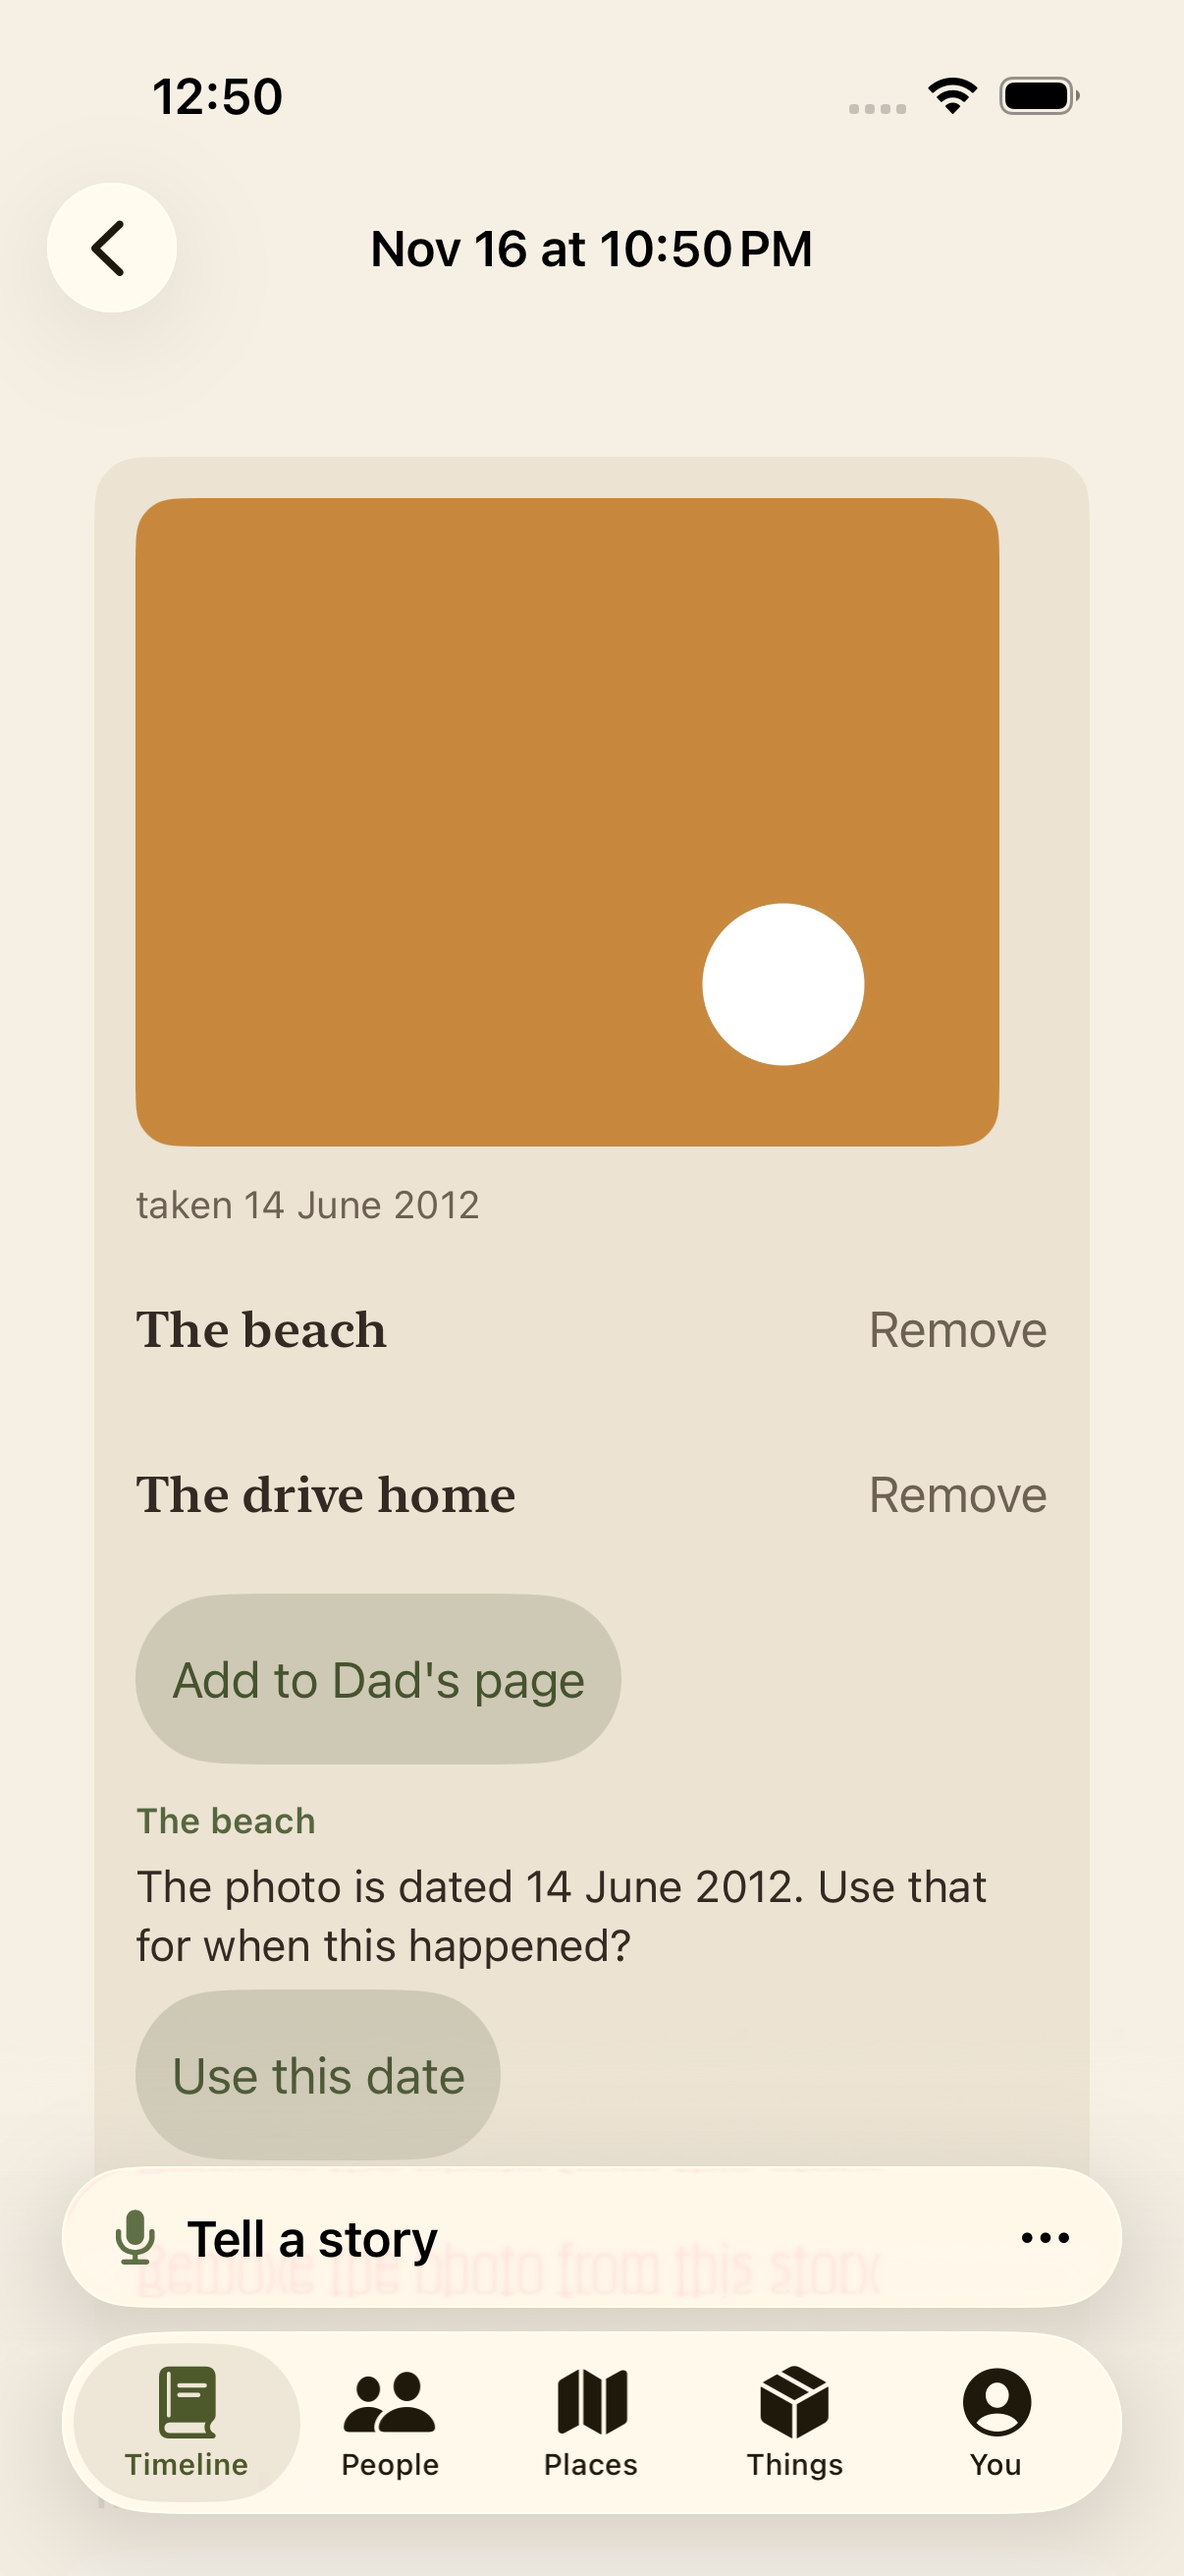
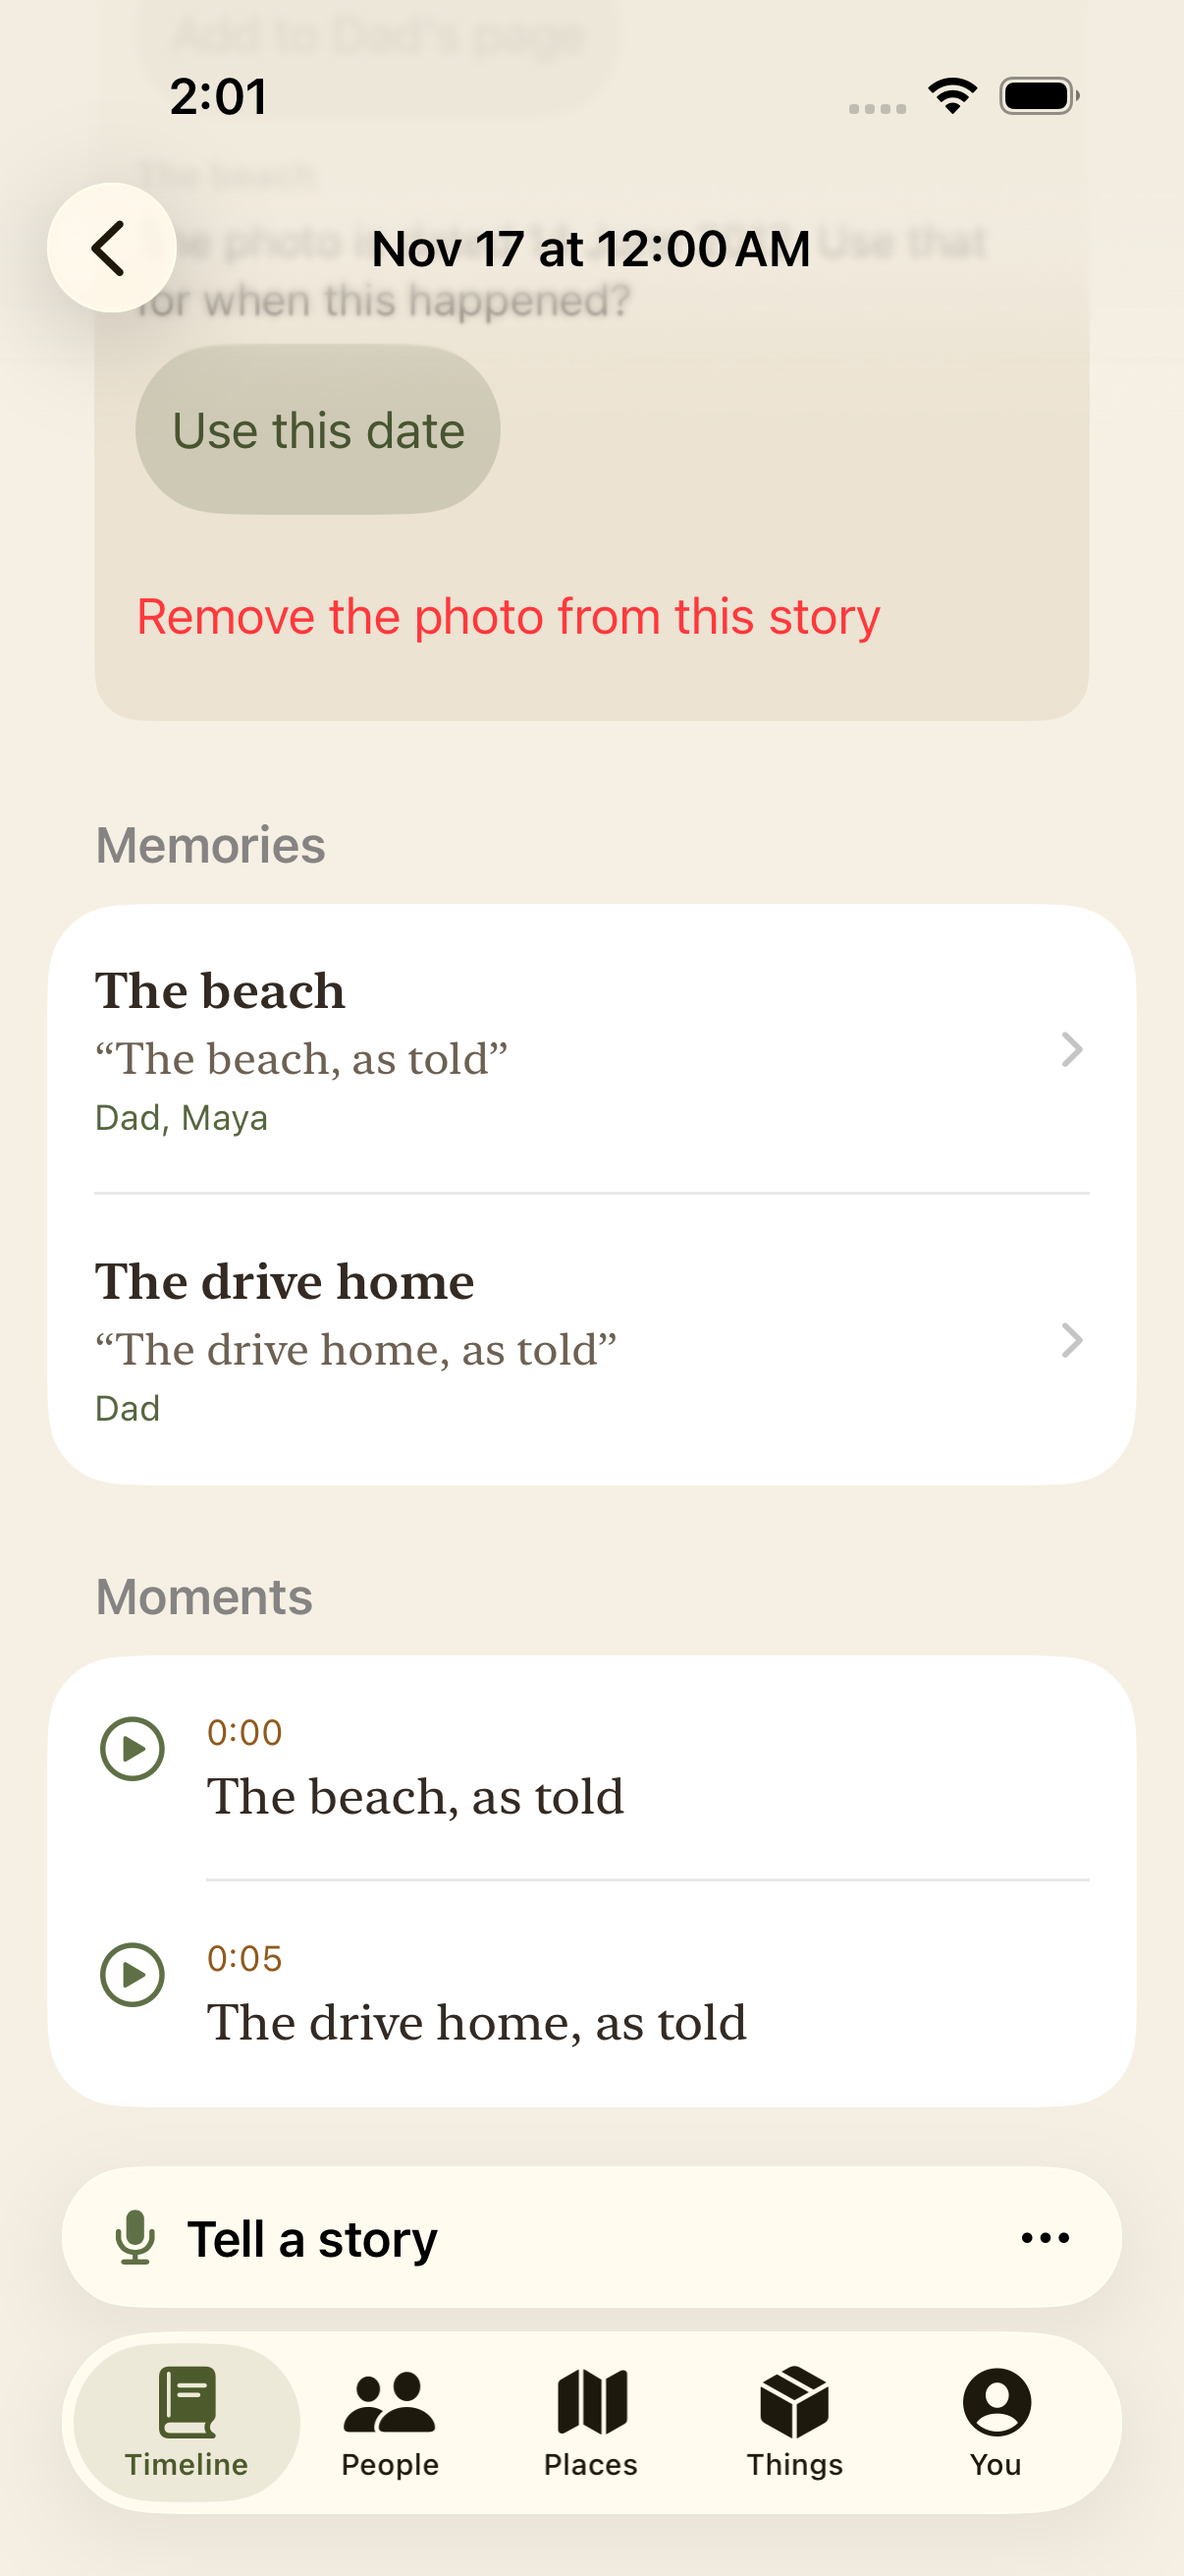
Docs: the final review's rulings, and screenshots 05 and 06 retaken
DECISIONS records the card listing merged-into memories, the merge write that
says what it linked, no "you said" line for a photo date, "Tell its story"
only where a session can start, the question before "Remove the photo from
this story" (copy for the owner to confirm) and the new thumbnail requests.
OVERVIEW no longer lists Favorite photos as a Phase 2 prompt. The device
check reads the grid tile as VoiceOver says it and adds a long-album scroll.

diff --git a/docs/DECISIONS.md b/docs/DECISIONS.md
@@ -23,6 +23,7 @@ One entry per decision. Newest first. Status is Decided, Open, or Superseded.
 **Rulings made while building (2026-11-16).** Each ruling has its cost.
 
 - **Undo of a merge takes back the photo link that the merge added.** It never takes a link that the target held before. Why: without this, an undone merge leaves a photo on a memory that the telling no longer belongs to. Cost: none. Remove `MergeReceipt.addedPhoto` to undo the ruling. This differs from S4, where an undone merge leaves the photos on the target.
+- **The merge write says which link it added (final review).** The link call returns the photo when it wrote the link. The check runs inside the transaction, after the folds of a group merge. Why: a check before the folds counted a photo that a folded memory carried to the target as added. The undo then took the photo off both memories.
 - **“Use this date” is one write, then the resolver runs.** The write changes the memory and its chapter’s range together. Why: a memory placed relative to this one must be placed again at once. Cost: one resolver run per tap.
 - **`PhotoCaption.longDate` is public.** The caption and the evidence text share one formatter.
 - **The running session’s header reads “You chose a story about a photo”.** The Sessions list names the session “A story about a photo”. Why: the record bar sits under the session screen, so the plan’s name “on the bar” has no place to show. The header follows the pattern “You chose a quick story”. Cost: one string.
@@ -30,15 +31,20 @@ One entry per decision. Newest first. Status is Decided, Open, or Superseded.
 - **The system picker for “All photos”, for no access and for an empty album is inline in the start sheet.** Only its bottom toolbar is hidden. Why: every path then starts the session from the dismissal of that one sheet, and the app never presents the session over a sheet. Cost: the inline picker looks unlike the modal picker of “Add a photo”. The owner must see it on the device.
 - **The record bar menu uses a fixed order.** The menu opens upward and showed its items in reverse, so “Tell a story about a photo” sat above “Settle in”.
 - **A cancel while a photo is added stores nothing.** The rule lives in the kit (`CancellablePhotoStore`). A stray stored photo is not visible in the UI, so no UI test can fail for it.
-- **Thumbnails use opportunistic delivery with the network off. A nil result is asked again.** An iCloud-only favorite then shows its local low-resolution image, not an empty tile. Cost: not checked against a real iCloud library. The device check covers it.
+- **Thumbnails ask for the full-quality image on the phone, then for the phone’s low-quality copy. The network stays off. A nil result is asked again.** Each request calls back once, so a tile never waits for a second delivery. The continuation resumes once, and a cancelled tile cancels its request. An iCloud-only favorite then shows its local low-resolution image, not an empty tile. Cost: two requests for an iCloud-only photo. Not checked against a real iCloud library. The device check covers it.
 - **“Its photo goes too.” is on the landing’s delete dialog only.** The landing is the only place the app deletes a session.
 - **A deleted session sweeps its homeless photo at once.** Why: the sentence in the dialog must be true before the next launch. Cost: one directory listing and one query per delete.
 - **The Remove button’s accessibility label is “Remove from {title}”.** Two rows with the same visible “Remove” are the same to VoiceOver and Voice Control. The label starts with the visible text.
+- **The card lists each memory that has a telling in the session (final review).** This includes a memory that a telling was merged into, which was first told in another session. The memory gets its title, “Remove”, its page offers and its date offer. Why: the merge put the photo on that memory, so the person must see it and be able to take it off.
+- **A date from a photo has no “you said” line (final review).** The memory page shows the day and the mark “from a photo”. The mark states the source. Why: the person tapped an offer. The person did not say the date. `TimeRange.saidEvidence` holds the rule.
+- **“Tell its story” shows only where a session can start (final review).** The viewer inside a landing’s review does not show it. The app also hides it while a session or a landing is up. Why: there the button did nothing, and a start would replace a landing that the person has not answered.
+- **“Remove the photo from this story” asks first (final review).** The dialog follows S4’s “Remove photo…”. Title: “Remove this photo?”. Message: “It leaves this story. The original stays in your photo library.” Buttons: “Remove photo” and “Keep it”. Why: when nothing else holds the photo, the tap deletes it from the app. The owner must confirm the new copy.
+- **“Use this date” has the accessibility label “Use this date for {title}”.** Two offers are then not the same to VoiceOver and Voice Control. The label starts with the visible text.
 - **The test seed has two photo sessions.** The second has no kept memory, and its photo has no other home. The delete test needs one. `-uiTesting-photoStoryLanding first|second` opens the app on a landing, because the delete dialog opens from a landing only.
 - **Test changes.** The kit test target did not compile on Swift 6.4.2, so the controller un-nested two `#require` calls in `V7PeopleRulesTests.swift` in its own commit. `v13OnAPopulatedV12Database` now migrates up to v13, because its `select *` would see the v14 column. `testTheGridHoldsAtTheLargestText` launches with seeded people, because the Skip button of first open is out of reach at that size. That is an existing defect outside this work.
 - **A known red test, not ours.** `keepWritesTheCardsKind` fails on `origin/main` (a1638c3). It stays as it is.
 
-**Open items for the owner.** Each needs a decision or a look.
+**Open items for the owner.** Each needs a decision or a look. The copy of the new “Remove this photo?” dialog also needs the owner’s word (see the rulings).
 
 1. **Plan decision 4: the re-link case.** The app does not store “removed from this memory”. If the person removes the photo from a memory, and a second telling of the same photo session is merged into that memory, the app links the photo again. The spec says it must not. The plan accepted this rare case to avoid a new table. Cost of a fix: a table of removed links.
 2. **The inline picker’s look.** See the ruling above. The device check shows it.

diff --git a/docs/OVERVIEW.md b/docs/OVERVIEW.md
@@ -302,9 +302,9 @@ A tap on a photo copies it with the rules of “Photos” and closes the sheet. 
 
 A photo has three homes: a page, a memory and a session. A photo that a session points at stays when its last page link goes. When nothing holds the photo, the row and the file go together.
 
-The photo links to a memory when the person keeps the memory, or when a telling of the session is merged into a memory. An undone merge takes back the link that the merge added. The landing and the session’s page show a photo card. The card lists the memories that hold the photo, each with “Remove”. It offers “Add to {title}’s page” for each person, place or thing the story named, and “Use this date” when the photo has a date that fits. Each offer is a tap, has no “No” button and stores nothing when ignored. “Use this date” changes the memory and its chapter in one write, then the resolver runs. A date from a photo is settled. The memory page marks it “from a photo”. Where the app sums dates up, such as the entity page span and the life strip, it reads as a guess.
+The photo links to a memory when the person keeps the memory, or when a telling of the session is merged into a memory. An undone merge takes back the link that the merge added, and only that link. The landing and the session’s page show a photo card. The card lists each memory with a telling in the session that holds the photo, also a memory first told in another session. Each has “Remove”. It offers “Add to {title}’s page” for each person, place or thing the story named, and “Use this date” when the photo has a date that fits. Each offer is a tap, has no “No” button and stores nothing when ignored. “Use this date” changes the memory and its chapter in one write, then the resolver runs. A date from a photo is settled. The memory page marks it “from a photo” and shows no “you said” line, because the person did not say it. Where the app sums dates up, such as the entity page span and the life strip, it reads as a guess.
 
-The landing’s delete dialog adds “Its photo goes too.” A delete of a session removes its photo at once when nothing else holds it.
+On the session’s page, “Remove the photo from this story” asks first. The viewer offers “Tell its story” only where a session can start, so not inside a landing’s review. The landing’s delete dialog adds “Its photo goes too.” A delete of a session removes its photo at once when nothing else holds it.
 
 ### 10. The spoken interviewer (M8, in review)
 
@@ -323,7 +323,7 @@ The voice is on-device (`AVSpeechSynthesizer`), through the same audio engine as
 - **Replay (M9).** “Listen at this level”: a playlist in the person’s voice for a story, a chapter or a life, with narration added only later and only as the person approves it.
 - **Navigation by level.** Life, chapter, story and moment as one zoomable view in the manner of Photos, with a year scrubber on the edge.
 - **Protect, when others use the app.** A privacy screen with Share and a Local-only session chosen before recording; span-level deletion that keeps playback offsets; re-running a new extractor version from inside the app.
-- **Phase 2: props.** Favorite photos as prompts and anchors (PhotoKit gives dates and places; people are tagged by hand; a face model only after an evaluation against those tags), then music from an era.
+- **Phase 2: props.** Phase 1.5 built one Favorite photo as a prompt (see “A photo starts a story”). Phase 2 adds photos as anchors: clusters of photos, the places PhotoKit gives, people tagged by hand, and a face model only after an evaluation against those tags. Then music from an era.
 - **Phase 3: family.** Per-memory sharing, several perspectives on one event, questions for each other, and a read-only web viewer.
 
 > **Next.**

diff --git a/docs/plans/2026-11-16-photo-story-device-check.md b/docs/plans/2026-11-16-photo-story-device-check.md
@@ -6,11 +6,11 @@ Run this on the iPhone with the photo-story build. Tick each line. Say what look
 2. [ ] Install fresh again. Answer the prompt "Limit Access" and choose three photos. The grid shows "Photos you allowed" and only those three. "All photos" opens the system picker inside the same sheet, and it keeps its albums and search. Say how the inline picker looks next to the picker of "Add a photo".
 3. [ ] Install fresh again. Answer "Don't Allow". The system picker opens at once in the same sheet. There is no error and no second prompt. Pick a photo. The session starts. Tap the entry again. The explanation does not show again, and the app does not ask again.
 4. [ ] Change access in Settings between two stories (Full to Limited, then to None). Each next tap on the entry opens the right screen, with no error and no second prompt.
-5. [ ] Make a Favorites album that holds a photo that is only in iCloud. Open the grid. The tile shows an image, not an empty square. Tap it. "Adding the photo…" shows while the original downloads. Then the session starts.
+5. [ ] Make a Favorites album that holds a photo that is only in iCloud. Open the grid. The tile shows an image, not an empty square. Scroll a long Favorites album up and down. No tile stays empty. Tap the iCloud-only photo. "Adding the photo…" shows while the original downloads. Then the session starts.
 6. [ ] Pick an edited photo, a Live Photo and a RAW+JPEG photo. Each shows upright on the session screen and keeps its date in the caption.
 7. [ ] Pick a scanned print. If it has a date, the card offers "The photo is dated {date}. Use that for when this happened?" Ignore the offer. Nothing changes and nothing asks again. Then tap "Use this date" on another story. The memory page shows the day and "from a photo".
 8. [ ] Start a photo story with sound on. The photo is on screen while the app speaks the opening. The app asks nothing after the opening. Swap the opening for another. Say if the photo under a scene question looks wrong.
-9. [ ] With VoiceOver, the grid reads each photo with its caption and nothing about what is in it. The session photo reads "Photo for this story" with its caption. On the card, "Remove" reads "Remove from {title}". Every control works with a swipe and a double tap.
+9. [ ] With VoiceOver, the grid reads each photo as "Photo, {n} of {count}" and nothing about what is in it. The session photo reads "Photo for this story" with its caption. On the card, "Remove" reads "Remove from {title}", and "Use this date" reads "Use this date for {title}". Every control works with a swipe and a double tap.
 10. [ ] Set the largest text size (Accessibility XXXL). On the session screen, the photo, the opening, Pause and Finish are all reachable and nothing clips. The same holds for the card on the landing.
 11. [ ] Start a photo story and speak for a minute. Kill the app. Open it again. The landing for that session shows, with its photo card. Keep one memory. The photo is on it.
 12. [ ] Tell two stories from the same Favorite. Each keeps the photo. Remove the photo from one memory. The other memory keeps it. Merge a second telling into the memory you removed it from. Say if the photo comes back (plan decision 4).
